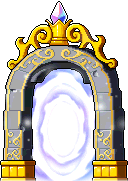
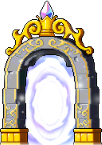
resized the exit, moved it slightly

diff --git a/Lab3v3/PlatformWorld.java b/Lab3v3/PlatformWorld.java
@@ -337,7 +337,7 @@ public class PlatformWorld extends World
         startx = 40;
         starty = 150;
         addObject(new player(), startx, starty);
-        addObject(new exit_right(), 940, 460);
+        addObject(new exit_right(), 970, 480);
         addObject(new enemy(), 737, 170);
         addObject(new enemy(), 247, 300);
     }
